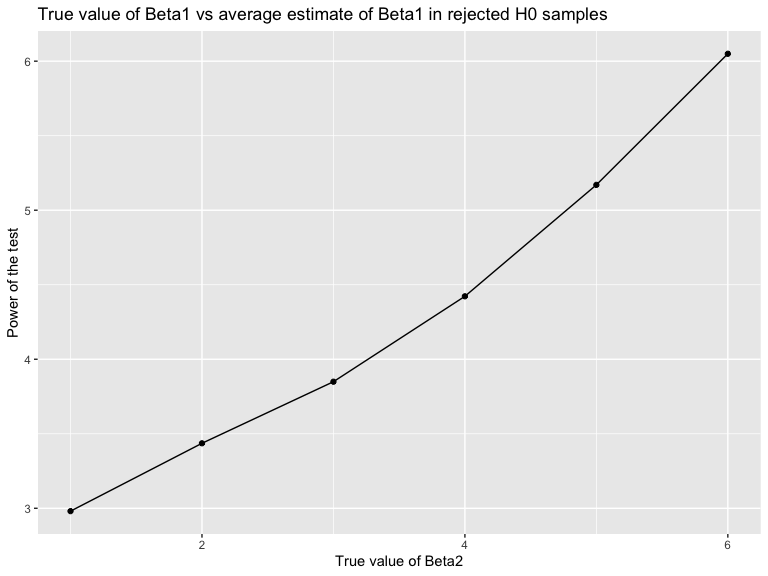
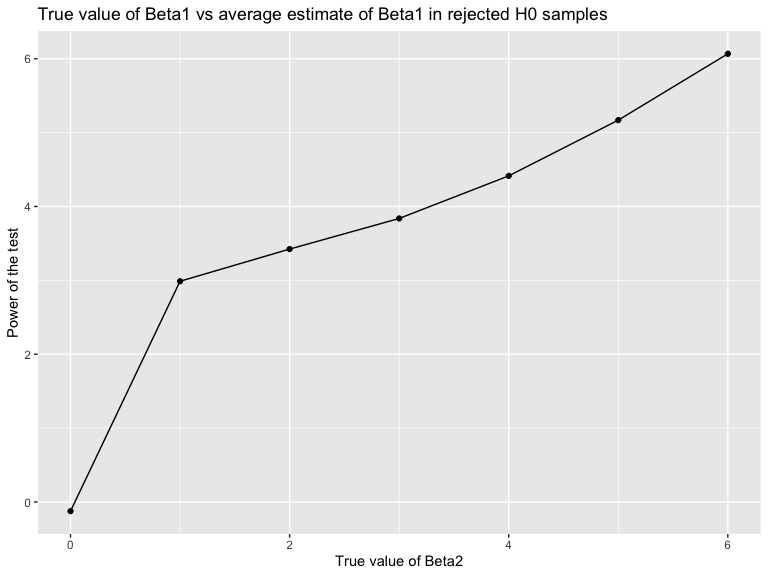
corrected plots with b0 included, answered last part of q3

diff --git a/p8105_hw5_nja2140.md b/p8105_hw5_nja2140.md
@@ -59,7 +59,8 @@ plot_one =
     values_to = "observation"
   ) %>% 
   ggplot(aes(x = week, y = observation, color = treatment_arm, group=subject_id)) +
-         geom_point() + geom_line() +
+  geom_point() + 
+  geom_line() +
   labs(
   title = "Observation value over time per subject",
   x = "Week Number",
@@ -115,7 +116,7 @@ approximately equal to the true value of β1? Why or why not?
 
 ``` r
 sim_again =  
-  tibble(beta1_2 = c(1,2,3,4,5,6)) %>% 
+  tibble(beta1_2 = c(0,1,2,3,4,5,6)) %>% 
   mutate(
     output_lists =  map(.x = beta1_2, ~rerun(10000, sim_regression(beta1 = .x))),
     estimate_dfs = map(output_lists, bind_rows)) %>% 
@@ -125,7 +126,7 @@ sim_again =
 
 ``` r
 sim_again %>% 
-  mutate(reject_H0 = as.numeric(ifelse(beta1_p<= 0.05, "1", "0"))) %>% 
+  mutate(reject_H0 = as.numeric(ifelse(beta1_p< 0.05, "1", "0"))) %>% 
   group_by(beta1_2) %>% 
   summarize(power = mean(reject_H0)) %>% 
   ggplot(aes(x = beta1_2, y = power)) +
@@ -161,7 +162,7 @@ sim_again %>%
 
 ``` r
 sim_again %>% 
-  mutate(reject_H0 = as.numeric(ifelse(beta1_p<= 0.05, "1", "0"))) %>% 
+  mutate(reject_H0 = as.numeric(ifelse(beta1_p< 0.05, "1", "0"))) %>% 
   filter(reject_H0 == 1) %>% 
   group_by(beta1_2) %>% 
   summarize(avg_beta1hat = mean(beta1_hat)) %>% 
@@ -176,3 +177,5 @@ sim_again %>%
 ```
 
 <img src="p8105_hw5_nja2140_files/figure-gfm/unnamed-chunk-10-1.png" width="90%" />
+The sample average of beta1 hat across tests for which the null is
+rejected are not approximately equal to the true value of beta1.
